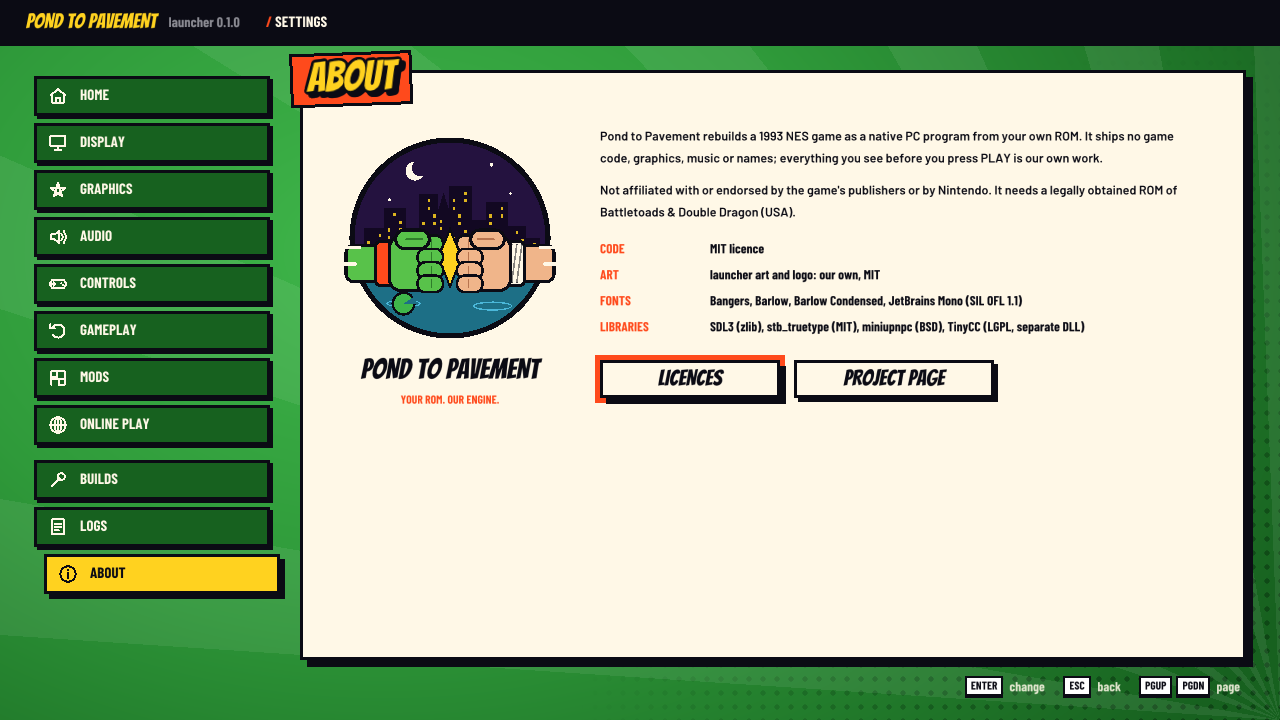
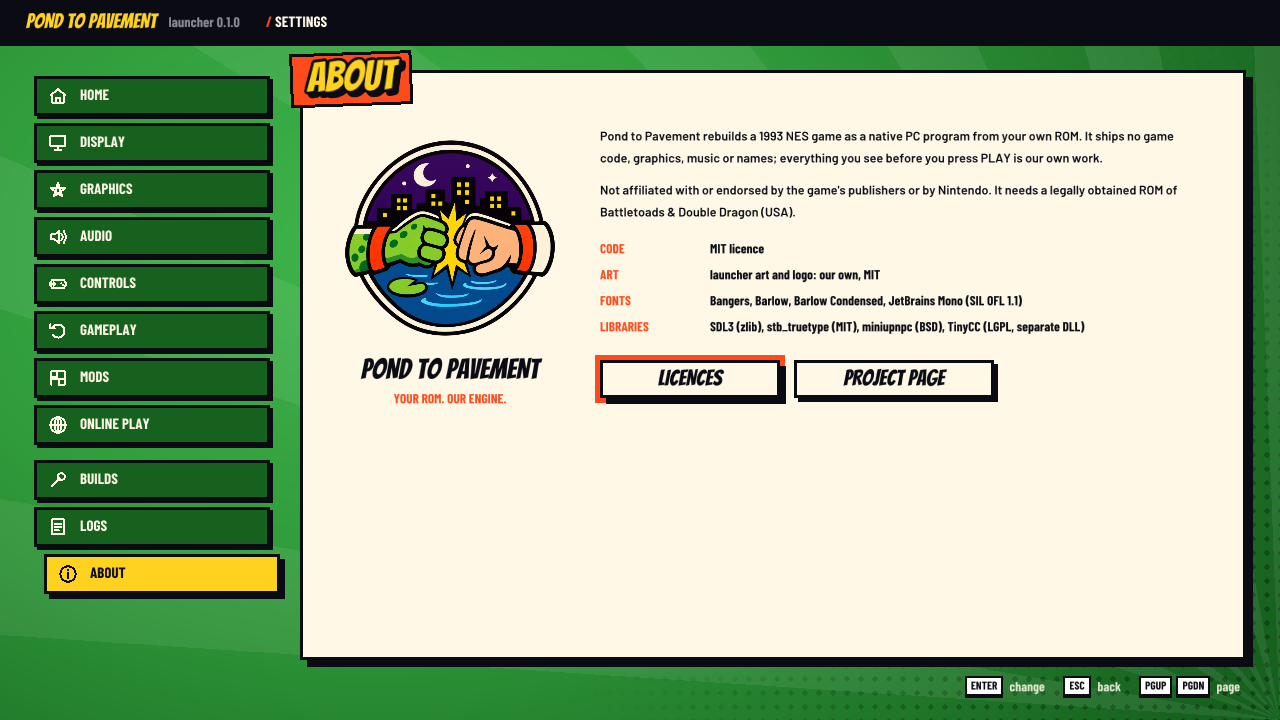
M11: the user's fist-bump emblem artwork (res/art/emblem.png) on Home, About and First run; drawn wordmark kept

Changed region(s): [[0.25, 0.1833, 0.4375, 0.4889], [0.3125, 0.55, 0.4062, 0.5806]]

diff --git a/src/launcher/theme.c b/src/launcher/theme.c
@@ -4,6 +4,8 @@
 #include <string.h>
 
 static SDL_Texture *field[2]; /* home, settings */
+static SDL_Texture *logo_tex;
+static float logo_w, logo_h; /* cropped size in texture pixels */
 
 static uint32_t lerp_rgb(Rgb a, Rgb b, float t)
 {
@@ -58,9 +60,73 @@ int theme_init(void)
     return field[0] && field[1] ? 0 : -1;
 }
 
+int theme_load_logo(const char *path)
+{
+    SDL_Surface *s = SDL_LoadPNG(path), *c;
+    int x, y, x0, y0, x1 = -1, y1 = -1;
+    SDL_Rect crop;
+    if (!s)
+        return -1;
+    c = SDL_ConvertSurface(s, SDL_PIXELFORMAT_RGBA32);
+    SDL_DestroySurface(s);
+    if (!c)
+        return -1;
+    x0 = c->w, y0 = c->h;
+    for (y = 0; y < c->h; y++) { /* crop the transparent margins */
+        const uint8_t *row = (const uint8_t *)c->pixels + (size_t)y * (size_t)c->pitch;
+        for (x = 0; x < c->w; x++)
+            if (row[4 * x + 3] > 8) {
+                if (x < x0) x0 = x;
+                if (x > x1) x1 = x;
+                if (y < y0) y0 = y;
+                if (y > y1) y1 = y;
+            }
+    }
+    if (x1 < x0) {
+        SDL_DestroySurface(c);
+        return -1;
+    }
+    crop.x = x0, crop.y = y0, crop.w = x1 - x0 + 1, crop.h = y1 - y0 + 1;
+    s = SDL_CreateSurface(crop.w, crop.h, SDL_PIXELFORMAT_RGBA32);
+    if (s) {
+        SDL_SetSurfaceBlendMode(c, SDL_BLENDMODE_NONE);
+        SDL_BlitSurface(c, &crop, s, NULL);
+        /* halve with averaging while it is much larger than needed (no mipmaps in SDL_Renderer) */
+        while (s->w > 1100) {
+            SDL_Surface *h = SDL_ScaleSurface(s, s->w / 2, s->h / 2, SDL_SCALEMODE_LINEAR);
+            if (!h)
+                break;
+            SDL_DestroySurface(s);
+            s = h;
+        }
+        logo_tex = SDL_CreateTextureFromSurface(kit_renderer(), s);
+        logo_w = (float)s->w;
+        logo_h = (float)s->h;
+        if (logo_tex)
+            SDL_SetTextureScaleMode(logo_tex, SDL_SCALEMODE_LINEAR);
+        SDL_DestroySurface(s);
+    }
+    SDL_DestroySurface(c);
+    return logo_tex ? 0 : -1;
+}
+
+int theme_logo_art(float x, float y, float w, float h)
+{
+    float k, dw, dh;
+    if (!logo_tex)
+        return 0;
+    k = w / logo_w < h / logo_h ? w / logo_w : h / logo_h;
+    dw = logo_w * k;
+    dh = logo_h * k;
+    kit_texture(logo_tex, x + (w - dw) / 2, y + (h - dh) / 2, dw, dh, 1);
+    return 1;
+}
+
 void theme_quit(void)
 {
     int i;
+    if (logo_tex)
+        SDL_DestroyTexture(logo_tex), logo_tex = NULL;
     for (i = 0; i < 2; i++)
         if (field[i])
             SDL_DestroyTexture(field[i]), field[i] = NULL;
@@ -182,6 +248,8 @@ void theme_emblem(float cx, float cy, float size)
 {
     const float R = 150, ccx = 165, ccy = 165, horizon = 200; /* disc and the waterline (design units) */
     int i;
+    if (theme_logo_art(cx - size / 2, cy - size / 2, size, size)) /* the artwork emblem (res/art/emblem.png) */
+        return;
     ES = size / 330.0f;
     EX = cx - 165 * ES;
     EY = cy - 165 * ES;

diff --git a/src/launcher/screens.c b/src/launcher/screens.c
@@ -210,8 +210,8 @@ static void draw_home(void)
     if (act[2])
         go(SCR_ONLINE);
 
-    theme_emblem(1000, 212, 300);
-    theme_logo(995, 362, 58, 92, 1);
+    theme_emblem(1000, 206, 310);
+    theme_logo(995, 368, 58, 92, 1);
 
     x = 70;
     for (i = 0; i < 5; i++) {
@@ -1159,7 +1159,7 @@ static void draw_about(void)
     float x = PX + 270, y = RY;
     theme_emblem(PX + 120, RY + 110, 210);
     kit_text(FONT_DISPLAY, 30, PX + 120, RY + 226, "POND TO PAVEMENT", C_INK, 1, ALIGN_CENTER);
-    kit_text(FONT_LABEL, 14, PX + 120, RY + 264, "YOUR ROM. OUR ENGINE.", C_RED, 1, ALIGN_CENTER);
+    kit_text(FONT_LABEL, 16, PX + 120, RY + 262, "YOUR ROM. OUR ENGINE.", C_RED, 1, ALIGN_CENTER);
     y += kit_text_wrap(FONT_BODY, 15, x, y, PR - x - 10, 22,
                        "Pond to Pavement rebuilds a 1993 NES game as a native PC program from your own ROM. It ships no "
                        "game code, graphics, music or names; everything you see before you press PLAY is our own work.",

diff --git a/src/launcher/theme.h b/src/launcher/theme.h
@@ -26,6 +26,10 @@ typedef enum Icon {
 
 int theme_init(void);  /* builds the backdrop texture; 0 on success */
 void theme_quit(void);
+/* the emblem artwork (res/art/emblem.png, RGBA, no title); 0 if loaded. Without it theme_emblem draws its own. */
+int theme_load_logo(const char *path);
+/* draws the emblem artwork fitted into the box (centred); returns 0 if there is no artwork */
+int theme_logo_art(float x, float y, float w, float h);
 
 void theme_backdrop(double t, int settings); /* field + halftone + turning rays */
 void theme_titlebar(const char *crumb, const char *version);

diff --git a/src/launcher/launcher_main.c b/src/launcher/launcher_main.c
@@ -157,6 +157,12 @@ int main(int argc, char **argv)
     if (kit_init(r, a->font_dir) != 0)
         SDL_Log("%s", kit_error());
     theme_init();
+    {
+        char art[1200];
+        snprintf(art, sizeof art, "%s/../art/emblem.png", a->font_dir);
+        if (theme_load_logo(art) != 0)
+            SDL_Log("no emblem artwork (%s): using the drawn one", art);
+    }
     a->focus[SCR_HOME] = 8; /* PLAY */
 
     if (shot) {

diff --git a/docs/LAUNCHER_STYLE.md b/docs/LAUNCHER_STYLE.md
@@ -12,11 +12,12 @@ how `docs/images/launcher-*.png` were made until the launcher's own `--ui-shot` 
   PLAY button, on a toad-green field with orange-red and yellow accents and a deep-space emblem.
 - **Home headline**: "Two Brothers, Three Toads... Zero Mercy!" (user's line). Three lines: "Two Brothers," /
   "Three Toads..." / "Zero Mercy!" (last line yellow).
-- **Logo**: a fist bump: a green fist from the left (cuffed in red) meets a human fist in a paper-white wrist wrap
-  from the right, with a yellow impact burst, over a disc that is half night city (skyline with lit windows, a moon)
-  and half pond (water, ripples, a lily pad): pond to pavement. Hands only, no faces or characters. Drawn in
-  `src/launcher/theme.c` (`theme_emblem`). Wordmark: "POND TO" over "PAVEMENT" in Bangers, yellow with a 4 px ink
-  outline, an orange-red offset and an ink offset, tilted -4°. (The first design's rocket fist is in the mockups.)
+- **Logo**: the emblem is the user's artwork `res/art/emblem.png` (2026-11-24): a green frog-skin fist in a red cuff
+  and a human fist in a red-and-white cuff bump over a yellow impact burst, inside a cream-ringed disc that is half
+  night city (moon, skyline with lit windows) and half pond (water, ripples, a lily pad): pond to pavement. Hands
+  only, no faces or characters. `theme_emblem` draws it fitted to its box (transparent margins cropped) and falls back
+  to a drawn version if the file is missing. Wordmark (drawn, not in the image): "POND TO" over "PAVEMENT" in Bangers,
+  yellow with a 4 px ink outline, an orange-red offset and an ink offset, tilted -4°.
 - **Never** in the launcher, package, icon or page: the game's characters, logos, sprites, screenshots, music, or the
   Battletoads / Double Dragon / Rare / Tradewest / Nintendo names as branding. The game title appears only as plain
   text where we say which ROM is needed (Your game row, first-run step 1, About). "Toads" and "brothers" in the
